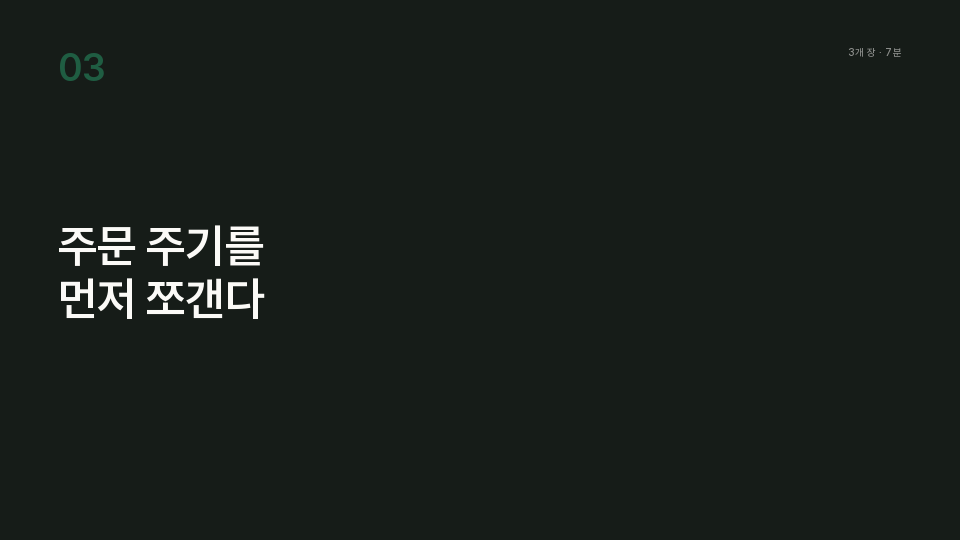
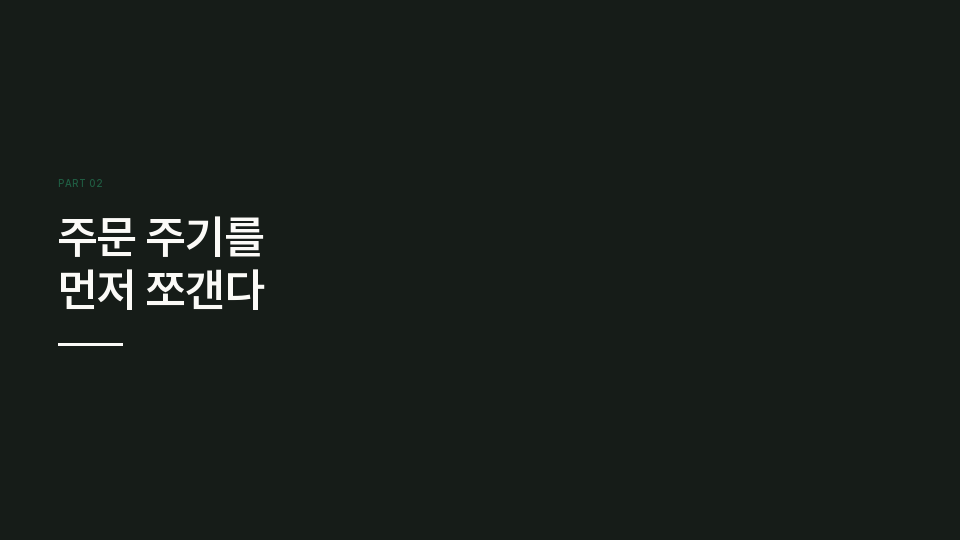
Apply principles §10 (learned from another tutor's deck), §4-5 and §4-3
- section: part: renders a part cover — label, title, short rule at coordinates that are
  identical on every part, so the reader can feel where they are in the deck
- tone: caution swaps the whole field (ground included) from a fourth palette hex; the tone
  ramp is tightened there because the caution ink is lighter than the normal near-black,
  and the existing contrast assertions verify it. editorial has no caution and falls back
- image_split alternates sides by default (side: auto) and moves the text block with it
- lint: SOURCE (photo without a credit), OVERSTATE (overblown wording for middle schoolers),
  SPLIT (six or more cards on one slide)
- SKILL.md: deck arc (question → tension → definition → … → open questions → Q&A),
  notebook-linked lessons (§4-5), photo-content check in the review pass
- example/docs/README: part cover, caution slide, gallery credit

diff --git a/scripts/build.py b/scripts/build.py
@@ -73,9 +73,11 @@ class L:
                 best, gap = a + "\n" + b, g
         return best or t
 
-    def head(self, s, sl, title_style="h1", span=9):
-        """눈썹 + 제목. 두 좌표는 모든 장에서 고정이다 — 그래서 훑을 때 눈이 안 흔들린다."""
+    def head(self, s, sl, title_style="h1", span=9, x=None):
+        """눈썹 + 제목. 두 좌표는 모든 장에서 고정이다 — 그래서 훑을 때 눈이 안 흔들린다.
+        x 는 사진이 왼쪽에 설 때(image_split)만 옮긴다 — 세로 좌표는 그대로 둔다."""
         d = self.d
+        X = col_x(1) if x is None else x
         if sl.get("eyebrow"):
             if sl.get("eyebrow_chip") or d.spec.get("eyebrow_style") == "chip":
                 SH = d.spec["shapes"]
@@ -84,10 +86,10 @@ class L:
                                d.spec["fonts"]["body"]) * 0
                 w = block_w(sl["eyebrow"], d.spec["styles"]["small"],
                             d.spec["fonts"]["body"]) + 36
-                d.chip(s, col_x(1), self.eyebrow_y - 6, w, SH["eyebrow_chip_h"],
+                d.chip(s, X, self.eyebrow_y - 6, w, SH["eyebrow_chip_h"],
                        sl["eyebrow"], color="accent", text_color="ground", style="small")
             else:
-                d.text(s, "micro", col_x(1), self.eyebrow_y, span_w(span), 15,
+                d.text(s, "micro", X, self.eyebrow_y, span_w(span), 15,
                        sl["eyebrow"], color="accent", tag="eyebrow")
         if sl.get("runner"):
             d.text(s, "micro", col_x(9), self.eyebrow_y, span_w(4), 15,
@@ -103,7 +105,7 @@ class L:
             st = d.spec["styles"][title_style]
             t = self.balance(sl["title"], span_w(span), title_style)
             h = block_h(t, span_w(span), st, d.spec["fonts"][st["font"]])
-            d.text(s, title_style, col_x(1), self.title_y, span_w(span), h,
+            d.text(s, title_style, X, self.title_y, span_w(span), h,
                    t.split("\n"), tag="title")
             self.title_bottom = self.title_y + h
 
@@ -201,8 +203,25 @@ def _closing_qa(d, s, g, sl):
             warn(f"closing(Q&A): '{k}' 는 넣지 않는다 — 사용자가 직접 지운 요소다. 무시함")
 
 def section(d, s, m, sl):
-    """반전 필드. 큰 번호가 아니라 눈썹 + 제목의 위치만으로 장을 가른다."""
+    """반전 필드. 큰 번호가 아니라 눈썹 + 제목의 위치만으로 장을 가른다.
+
+    `part:` 를 주면 파트 표지가 된다 — 사용자 원칙 §10(배서위 덱에서 배운 점):
+    라벨 + 큰 제목 + 짧은 가로선 하나를 **모든 파트에서 같은 좌표**에 둔다.
+    좌표가 같아야 장을 넘길 때 "지금 어디쯤인지"가 저절로 읽힌다.
+    그래서 여기서만 광학 중심을 쓰지 않고 고정 y 를 쓴다.
+    """
     g = L(d)
+    if sl.get("part"):
+        SH = d.spec["shapes"]
+        py = SH["part_label_y"]
+        d.text(s, "micro", col_x(1), py, span_w(6), 15, str(sl["part"]),
+               color="accent", tag="part-label")
+        title = _t(sl, "title")
+        th = g.bh(title, span_w(9), "cover")
+        ty = SH["part_title_y"]
+        d.text(s, "cover", col_x(1), ty, span_w(9), th, title.split("\n"), tag="title")
+        d.hero_rule(s, col_x(1), ty + th + SH["part_rule_gap"], SH["part_rule_w"])
+        return
     if sl.get("number"):
         d.text(s, "display", col_x(1), g.eyebrow_y, span_w(3), 46,
                str(sl["number"]), color="accent", tag="section-num")
@@ -988,15 +1007,23 @@ def table_columns(d, n):
 
 
 def image_split(d, s, m, sl):
+    """사진 반쪽 + 글 반쪽. 크기와 위치는 고정하고 **좌우만 번갈아** 쓴다 (원칙 §10).
+    규칙은 유지한 채 화면이 지루해지지 않는다. `side: left|right` 로 직접 정할 수도 있다."""
     g = L(d)
     IW = 392
-    d.picture(s, sl["image"], 960 - IW, 0, IW, 540, sl.get("fit", "cover"),
+    side = sl.get("side", "auto")
+    if side == "auto":
+        side = "left" if getattr(d, "_img_side", "left") == "right" else "right"
+    d._img_side = side
+    ix = 0 if side == "left" else 960 - IW
+    tx = col_x(1) + (IW if side == "left" else 0)
+    d.picture(s, sl["image"], ix, 0, IW, 540, sl.get("fit", "cover"),
               focus=sl.get("focus", "center"))
-    g.head(s, sl, span=6)
+    g.head(s, sl, span=6, x=tx)
     body = _paras(sl, "bullets", "body")
     if body:
         bh_ = g.bh("\n".join(body), span_w(6), "body")
-        d.text(s, "body", col_x(1), resolve_y(bh_, d.spec, top=g.top), span_w(6), bh_, body,
+        d.text(s, "body", tx, resolve_y(bh_, d.spec, top=g.top), span_w(6), bh_, body,
                color="ink2", tag="body")
 
 
@@ -1054,7 +1081,8 @@ def build(outline_path, out_path=None, spec_path=None, embed=False):
         if run > spec["rhythm"]["max_same_layout_run"]:
             warn(f"slide {i}: '{lay}' {run}연속 — 리듬이 죽는다")
         prev = lay
-        s = d.slide(invert=lay in INVERTED or bool(sl.get("invert")))
+        s = d.slide(invert=lay in INVERTED or bool(sl.get("invert")),
+                    tone=sl.get("tone"))
         mode = LAYOUTS[lay](d, s, m, sl)
         d.notes(s, sl.get("notes"))     # 자세한 설명은 노트로
         if lay == "cards":

diff --git a/scripts/deckkit.py b/scripts/deckkit.py
@@ -398,11 +398,34 @@ class Deck:
         return self.colors[name]
 
     # ---- 슬라이드 ------------------------------------------------------
-    def slide(self, invert=False):
-        """반전 필드는 슬라이드 배경색으로 처리한다. 사각형을 깔지 않는다 (§12)."""
+    def slide(self, invert=False, tone=None):
+        """반전 필드는 슬라이드 배경색으로 처리한다. 사각형을 깔지 않는다 (§12).
+
+        tone="caution" 은 주의·위험을 다루는 장이다 — 사용자 원칙 §10 "색이 뜻을 나른다".
+        말로 "위험합니다"라고 쓰지 않아도 장을 넘기는 순간 전해지게 **바탕까지** 바꾼다.
+        팔레트에 caution hex 가 있을 때만 켜진다. 새 hex 는 그 하나뿐이고 나머지 톤은
+        기존 파생 규칙(derive)이 만든다.
+        """
         self.field_inverted = invert
         pal = invert_pal(self.base_pal) if invert else self.base_pal
-        self.colors = derive(pal, self.spec)
+        cau = self.base_pal.get("caution") if tone == "caution" else None
+        if tone == "caution" and not cau:
+            # editorial 명세는 hex 3개로 못박혀 있다 — 넷째 색을 몰래 들이지 않고 보통 필드로 둔다
+            print(f"  · 팔레트 '{self.pal_name}' 에 caution 색이 없다 — tone: caution 무시")
+            tone = None
+        if tone == "caution":
+            pal = {"ground": mix(cau, pal["ground"], self.spec["colors"].get("caution_tint_mix", 0.94)),
+                   "figure": cau, "accent": cau}
+        self.tone = tone
+        cfg = self.spec
+        if tone == "caution":
+            # 주의 잉크(자주)는 기본 잉크(먹)보다 밝다. 같은 비율로 톤을 뽑으면 캡션이
+            # 대비 기준 아래로 떨어진다 — 이 필드에서만 램프를 좁힌다. 검사는 derive 가 한다.
+            cfg = {**self.spec, "colors": {**self.spec["colors"],
+                                           "tone_ink2": self.spec["colors"].get("caution_ink2", 0.12),
+                                           "tone_muted": self.spec["colors"].get("caution_muted", 0.28),
+                                           "tone_faint": self.spec["colors"].get("caution_faint", 0.45)}}
+        self.colors = derive(pal, cfg)
         bg = "ground"
         s = self.prs.slides.add_slide(self._blank)
         fill = s.background.fill

diff --git a/README.md b/README.md
@@ -57,7 +57,7 @@ AI로 만든 PPT는 내용과 무관하게 알아봅니다. 원인은 대부분 
 <table>
 <tr>
 <td width="50%"><img src="docs/cover.png" alt="cover"><br><code>cover</code> · 표지</td>
-<td width="50%"><img src="docs/section.png" alt="section"><br><code>section</code> · 장 구분, accent 전면 반전</td>
+<td width="50%"><img src="docs/section.png" alt="section (파트 표지)"><br><code>section</code> · 파트 표지. 라벨·제목·짧은 선이 모든 파트에서 같은 좌표</td>
 </tr>
 <tr>
 <td><img src="docs/cellgrid.png" alt="cellgrid"><br><code>cellgrid</code> · 자료구조를 칸으로 그려 가르친다</td>
@@ -70,6 +70,9 @@ AI로 만든 PPT는 내용과 무관하게 알아봅니다. 원인은 대부분 
 <tr>
 <td><img src="docs/closing-qa.png" alt="closing (질문 시간)"><br><code>closing</code> · 마무리 질문 장. 알약 라벨 · 큰 제목 · 맺음말 한 줄, 그림은 선택</td>
 <td><img src="docs/chain.png" alt="chain"><br><code>chain</code> · 전제 하나에서 꼬리를 무는 질문</td>
+</tr>
+<tr>
+<td colspan="2"><img src="docs/caution.png" alt="tone: caution"><br><code>tone: caution</code> · 주의·위험을 다루는 장은 바탕까지 바꾼다. 말로 "위험합니다"라고 쓰지 않는다</td>
 </tr>
 <tr>
 <td colspan="2"><img src="docs/table.png" alt="table"><br><code>table</code> · 네이티브 표를 쓰지 않는다. 테마 표스타일의 줄무늬 채움과 전체 테두리가 가장 알아보기 쉬운 템플릿 지문이라 헤어라인으로 직접 그린다</td>
